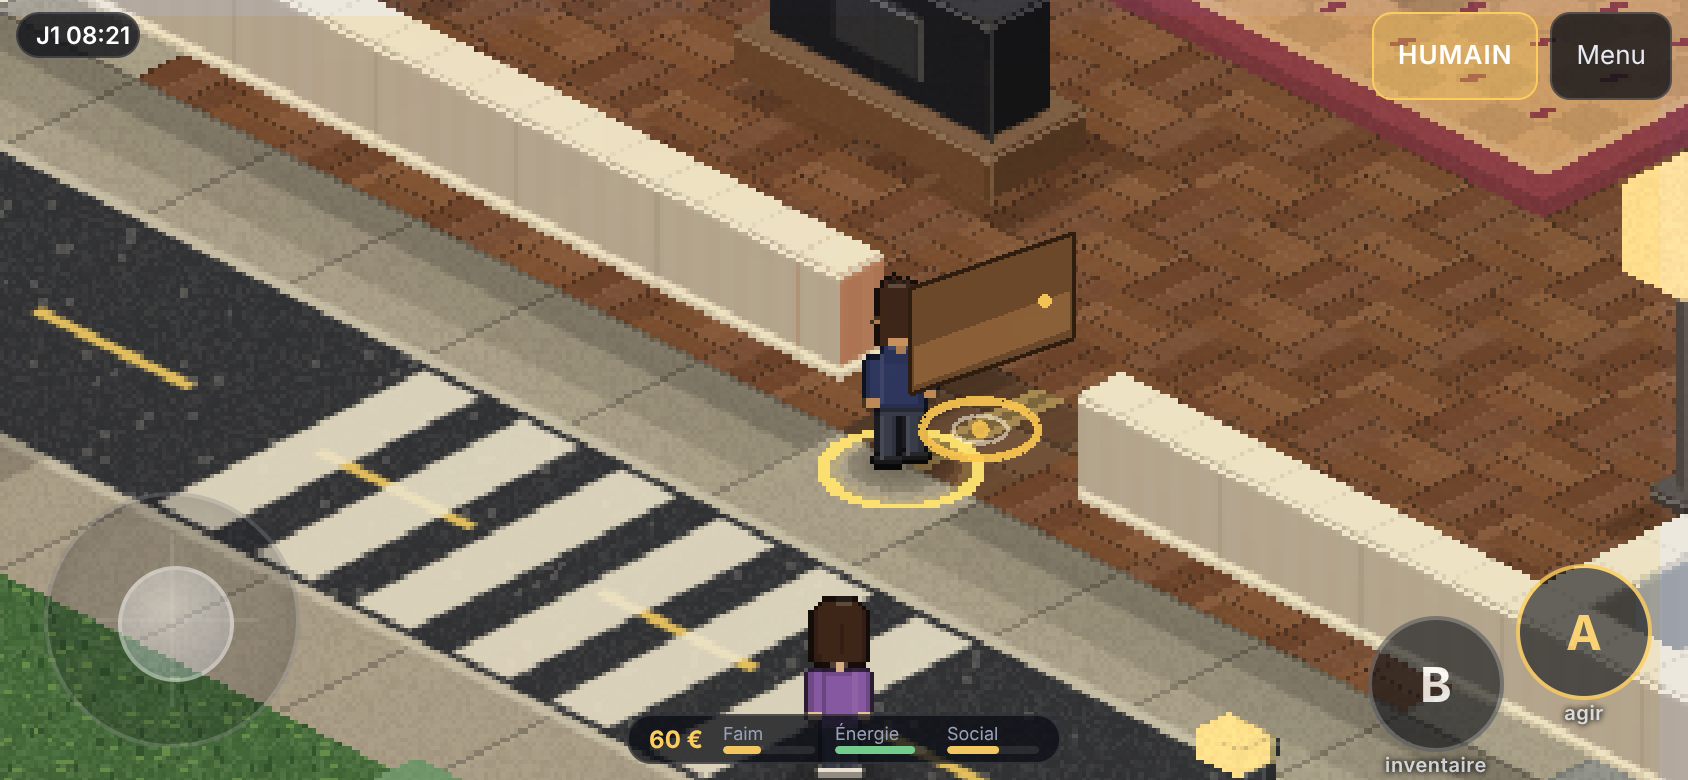
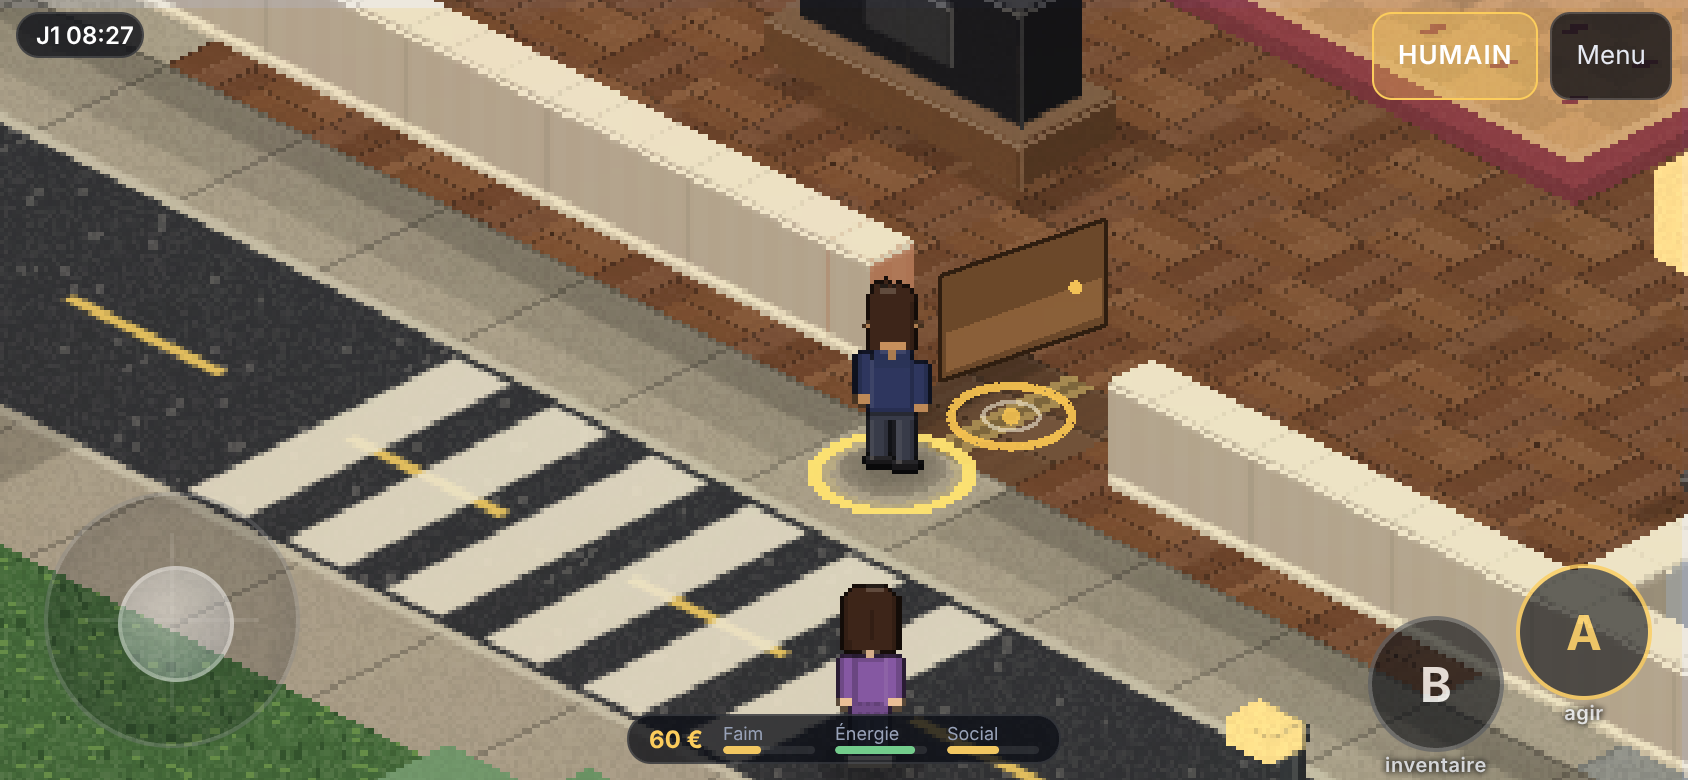
LIVING NORIA V1.1 : démo vivante à trois habitants, icônes d'activité, trajet en pointillés, observation (destination, besoin prioritaire, souvenirs marquants, suivi caméra), vitesses x1/x2/x3, démarrage animé, audit
Claude-Session: https://claude.ai/code/session_01TgHL2ERFFt3nTP8cEL1RNQ

diff --git a/src/sim/life.ts b/src/sim/life.ts
@@ -380,10 +380,10 @@ export function decide(w: World, c: SimChar): boolean {
   const it = c.intent;
   if (it) {
     if (w.clock > it.until) c.intent = null;
-    else if (it.kind === 'steal') { const v = w.chars[it.target]; if (!v || !searchPlan(w, c, v)) c.intent = null; else return true; }
+    else if (it.kind === 'steal') { const v = w.chars[it.target]; if (!v || !searchPlan(w, c, v)) c.intent = null; else { c.lifeAct = 'Fouiller une chambre'; c.lifeWhy = `à court d'argent (${Math.round(c.money)} €), peu scrupuleux, ${v.first} est riche et absent ou endormi`; return true; } }
     else {
       const t = w.chars[it.target];
-      if (t && !t.away && !t.isAsleep() && c.needs.hunger > 8 && c.needs.bladder > 8) { c.plan = [{ type: 'approach', target: t.id }]; w.startNextStep(c); if (c.state === 'walk') return true; }
+      if (t && !t.away && !t.isAsleep() && c.needs.hunger > 8 && c.needs.bladder > 8) { c.plan = [{ type: 'approach', target: t.id }]; w.startNextStep(c); if (c.state === 'walk') { c.lifeAct = { help: 'Aller aider', confront: 'Aller confronter', tell: 'Aller raconter', apologize: "Aller s'excuser", steal: 'Voler' }[it.kind]; c.lifeWhy = `intention en cours envers ${t.first}`; return true; } }
       if (t && t.isAsleep() && w.clock - it.until < 0) { /* attend qu'il se réveille */ }
     }
   }
@@ -391,27 +391,27 @@ export function decide(w: World, c: SimChar): boolean {
   // sortie au bar en cours
   if (c.outing === 'bar') {
     const inB = inBuilding(c, 'bar');
-    if (w.clock > c.outUntil || !w.barOpen() || c.needs.energy < 22 || c.money < 4 || c.needs.bladder < 14) { c.outing = ''; goHome(w, c); return true; }
-    if (!inB) return planDrink(w, c) || (goHome(w, c), c.outing = '', true);
-    if (c.money >= 4 && w.rng.randf() < 0.55) return planDrink(w, c);
+    if (w.clock > c.outUntil || !w.barOpen() || c.needs.energy < 22 || c.money < 4 || c.needs.bladder < 14) { c.outing = ''; goHome(w, c); c.lifeAct = 'Rentrer'; c.lifeWhy = 'la soirée au bar est finie (heure, fatigue ou argent)'; return true; }
+    if (!inB) { c.lifeAct = 'Aller au bar'; c.lifeWhy = 'sortie du soir en cours'; return planDrink(w, c) || (goHome(w, c), c.outing = '', true); }
+    if (c.money >= 4 && w.rng.randf() < 0.55) { c.lifeAct = 'Reprendre un verre'; c.lifeWhy = `au bar, ${Math.round(c.money)} € en poche`; return planDrink(w, c); }
     return false;
   }
   // travail
   const s = c.shift;
   if (s && !c.isAsleep() && c.jobPhase === '' && (c.stats.worked_day ?? -1) !== day && h >= s.from - 0.4 && h < s.to - 3 && c.needs.energy >= 25 && inBuilding(c, 'house')) {
     c.stats.worked_day = day; c.jobPhase = 'working'; c.jobStart = w.clock; c.jobUntil = w.clock - w.tod() + s.to * 60;
-    w.emitLog(`${c.first} part travailler (${s.place}).`, 'info', c.id); depart(w, c); return true;
+    w.emitLog(`${c.first} part travailler (${s.place}).`, 'info', c.id); c.lifeAct = 'Partir travailler'; c.lifeWhy = `service à ${Math.floor(s.from)} h, ${s.place}`; depart(w, c); return true;
   }
   // recherche d'emploi
   if (!s && c.money < 12 && c.jobPhase === '' && (c.stats.search_day ?? -1) !== day && h >= 9.5 && h < 15 && c.needs.energy >= 35 && inBuilding(c, 'house') && c.needs.hunger > 25) {
     c.stats.search_day = day; c.jobPhase = 'searching'; c.jobStart = w.clock; c.jobUntil = w.clock + w.rng.range(150, 220);
-    w.emitLog(`${c.first} n'a presque plus d'argent et part chercher du travail.`, 'info', c.id); depart(w, c); return true;
+    w.emitLog(`${c.first} n'a presque plus d'argent et part chercher du travail.`, 'info', c.id); c.lifeAct = 'Chercher du travail'; c.lifeWhy = `plus que ${Math.round(c.money)} € et pas d'emploi`; depart(w, c); return true;
   }
   // sortie du soir
   if (c.jobPhase === '' && h >= 18.2 && h < 22.5 && w.barOpen() && w.barman && !w.barman.away && (c.stats.bar_day ?? -1) !== day && c.money >= 8 && c.needs.energy > 40 && c.needs.hunger > 25 && inBuilding(c, 'house') && !c.isAsleep()) {
     const friends = w.chars.filter((o) => o.id !== c.id && !o.away && inBuilding(o, 'bar') && w.getRel(c.id, o.id).aff > 15).length;
     const u = (100 - c.needs.social) * 0.45 * (0.35 + c.trait('extraversion')) + (100 - c.needs.fun) * 0.35 + friends * 6 + (c.chrono > 0 ? 5 : 0) + w.rng.randf() * 10;
-    if (u > 40) { c.stats.bar_day = day; c.outing = 'bar'; c.outUntil = w.clock + w.rng.range(70, 160); w.emitLog(`${c.first} sort prendre un verre au bar.`, 'info', c.id); if (planDrink(w, c)) return true; c.outing = ''; }
+    if (u > 40) { c.stats.bar_day = day; c.outing = 'bar'; c.outUntil = w.clock + w.rng.range(70, 160); w.emitLog(`${c.first} sort prendre un verre au bar.`, 'info', c.id); if (planDrink(w, c)) { c.lifeAct = 'Sortir au bar'; c.lifeWhy = `soirée : besoin social ${Math.round(c.needs.social)} %, loisirs ${Math.round(c.needs.fun)} %, ${Math.round(c.money)} €`; return true; } c.outing = ''; }
     else c.stats.bar_day = day;
   }
   return false;

diff --git a/src/sim/simchar.ts b/src/sim/simchar.ts
@@ -31,7 +31,7 @@ export class SimChar {
   avoid: Record<number, number> = {}; pref: Record<string, number> = {};
   /** Vie autonome : savoirs par événement, intention, emploi (horaires, paie), sortie en cours. */
   known: Record<number, Know> = {}; intent: Intent | null = null; shift: Shift | null = null;
-  jobPhase: '' | 'working' | 'searching' | 'out' = ''; jobUntil = 0; jobStart = 0; outing: '' | 'bar' = ''; outUntil = 0; lifeT = 0;
+  lifeAct = ''; lifeWhy = ''; jobPhase: '' | 'working' | 'searching' | 'out' = ''; jobUntil = 0; jobStart = 0; outing: '' | 'bar' = ''; outUntil = 0; lifeT = 0;
   memories: Memory[] = []; goal: Goal = { id: 'social', progress: 0, done: false }; goal_index = 0;
   emote = ''; emote_t = 0; action_text = ''; stats: Record<string, number> = {};
   /** resident = habitant autonome ; avatar = le dieu incarné (joueur) ; staff = employé (barman). */

diff --git a/src/view/scene.ts b/src/view/scene.ts
@@ -64,6 +64,7 @@ export class GameScene extends Phaser.Scene {
     if (this.world.avatarControlled || this.params.has('human')) this.descend(false);
     if (this.params.has('walls')) { this.wallMode = Number(this.params.get('walls')); this.applyWalls(); }
     if (this.demoKind === 'trio') { this.setSpeed(2); this.focusTrio(); } else if (this.demo) { this.setSpeed(3); this.focusZone('house'); }
+    if (fresh) this.setSpeed(2); // partie neuve : ×2 par défaut, la ville bouge deux fois plus vite sous les yeux (×1 reste à un toucher)
     if (this.params.has('speed')) this.setSpeed(Number(this.params.get('speed')));
     if (this.params.has('zoom')) { this.tz = this.cz = Number(this.params.get('zoom')); }
     if (this.params.has('at')) { const [x, y] = this.params.get('at')!.split(',').map(Number); const p = toScreen(x, y); this.tx = this.cx = p.x; this.ty = this.cy = p.y; }

diff --git a/src/sim/brain.ts b/src/sim/brain.ts
@@ -32,7 +32,7 @@ export function decide(w: World, c: SimChar) {
     const act = c.whisper_act; c.whisper_act = '';
     if (tryAct(w, c, act)) return;
   }
-  if (Life.decide(w, c)) { c.statAdd('life_decisions'); return; }
+  if (Life.decide(w, c)) { c.statAdd('life_decisions'); c.diag = { t: w.clock, chosen: c.lifeAct || 'Décision de vie', why: c.lifeWhy || 'emploi du temps, intention ou sortie', cands: [{ act: c.lifeAct || 'Décision de vie', score: 99, why: c.lifeWhy || 'priorité de vie (travail, sortie, intention) sur les activités ordinaires' }] }; return; }
   if (w.feastActive() && c.needs.hunger < 96 && (c.stats.feast_day ?? -1) !== w.day()) {
     const plan = planFeast(w, c);
     if (plan.length) { c.stats.feast_day = w.day(); c.plan = plan; w.startNextStep(c); return; }

diff --git a/docs/AUDIT_V1_1.md b/docs/AUDIT_V1_1.md
@@ -1,0 +1,32 @@
+# Audit V1.1 — l'intelligence des habitants, état réel du code
+
+Mesures faites sur une partie neuve de 16 h de jeu (06 h 52 → 22 h 52, 8 habitants, graine 1337) avant V1.1 :
+~100 décisions au total (≈ 6 par heure de jeu), 10 conversations, 27–47 % du temps en marche, 27–50 % hors carte (travail), 5–40 % endormis.
+
+## Réellement opérationnel (effet sur la simulation)
+| Capacité | Preuve dans le code |
+|---|---|
+| Décisions autonomes | `brain.ts` : score d'utilité par activité (besoins, heure, personnalité, habitudes apprises) ; `decide()` à chaque fin d'activité |
+| Besoins qui influencent les actions | 6 besoins qui déclinent (`updateNeeds`) ; un besoin urgent interrompt l'activité (`urgentNeed` → `endUse`) |
+| Destinations cohérentes | plans `goto` → `use` sur de vrais meubles (frigo, douche, canapé…), A* sur la carte, portes, trajets maison ↔ rue ↔ bar ↔ travail |
+| Interactions spontanées | décision « chat » (approche + session de conversation), conversations ambiantes entre voisins |
+| Souvenirs | `memories` (60 max, élagage par poids) ; événements du monde avec provenance (LIVING NORIA V1) |
+| Relations modifiées par les événements | `Social.apply` + `Life` : affection, confiance, peur, respect, tension, rancune |
+| Simulation indépendante du joueur | `World.tick` ne dépend pas de l'avatar ; le joueur n'est qu'un habitant de plus (`kind: 'avatar'`) |
+
+## Simulé surtout par du texte / peu efficace
+* Le **contenu** des conversations est une réplique tirée au hasard (`LINES_*`) : seule la *qualité* (agréable / gênante / dispute) est calculée et agit sur les relations.
+* Les souvenirs ordinaires (« discussion agréable… ») sont descriptifs : leur effet passe par les valeurs déjà modifiées (affection, évitement, préférences), pas par le texte.
+* Le journal décrit ; il ne décide de rien.
+
+## Manquait (cause de l'impression « ville statique »)
+1. Rien n'indiquait **ce que fait** ou **où va** un habitant : pas d'icône d'activité, pas de trajet, pas de destination lisible.
+2. Une partie neuve commençait à 6 h 52 : presque tout le monde dormait.
+3. Beaucoup d'habitants hors carte (travail) sans moyen de voir qu'ils sont « partis ».
+4. L'inactivité se traduisait par une errance aléatoire dans la pièce.
+5. Les bulles d'émotion duraient en temps de **jeu** (0,4 s réelle à ×8).
+6. Vitesses ×1 / ×3 / ×8 seulement ; animations de marche non accélérées.
+7. Peu de conversations (≈ 10 en 16 h).
+
+## Corrigé dans V1.1
+Icônes d'activité au-dessus des têtes (ce qu'ils font, ou vont faire) · trajet en pointillés + destination de l'habitant observé · fiche et carte rapide : activité, destination, besoin prioritaire, objectif, humeur, relations, souvenirs marquants · bouton « Suivre » · démarrage à 8 h 30 à ×2 · bulles en temps réel · vitesses ×1, ×2, ×3, ×8 · animations proportionnelles à la vitesse · errance remplacée par des points d'intérêt · départ au travail à l'heure (interrompt une activité interruptible) · plus de besoin social → plus de conversations · démo vivante à trois habitants.
